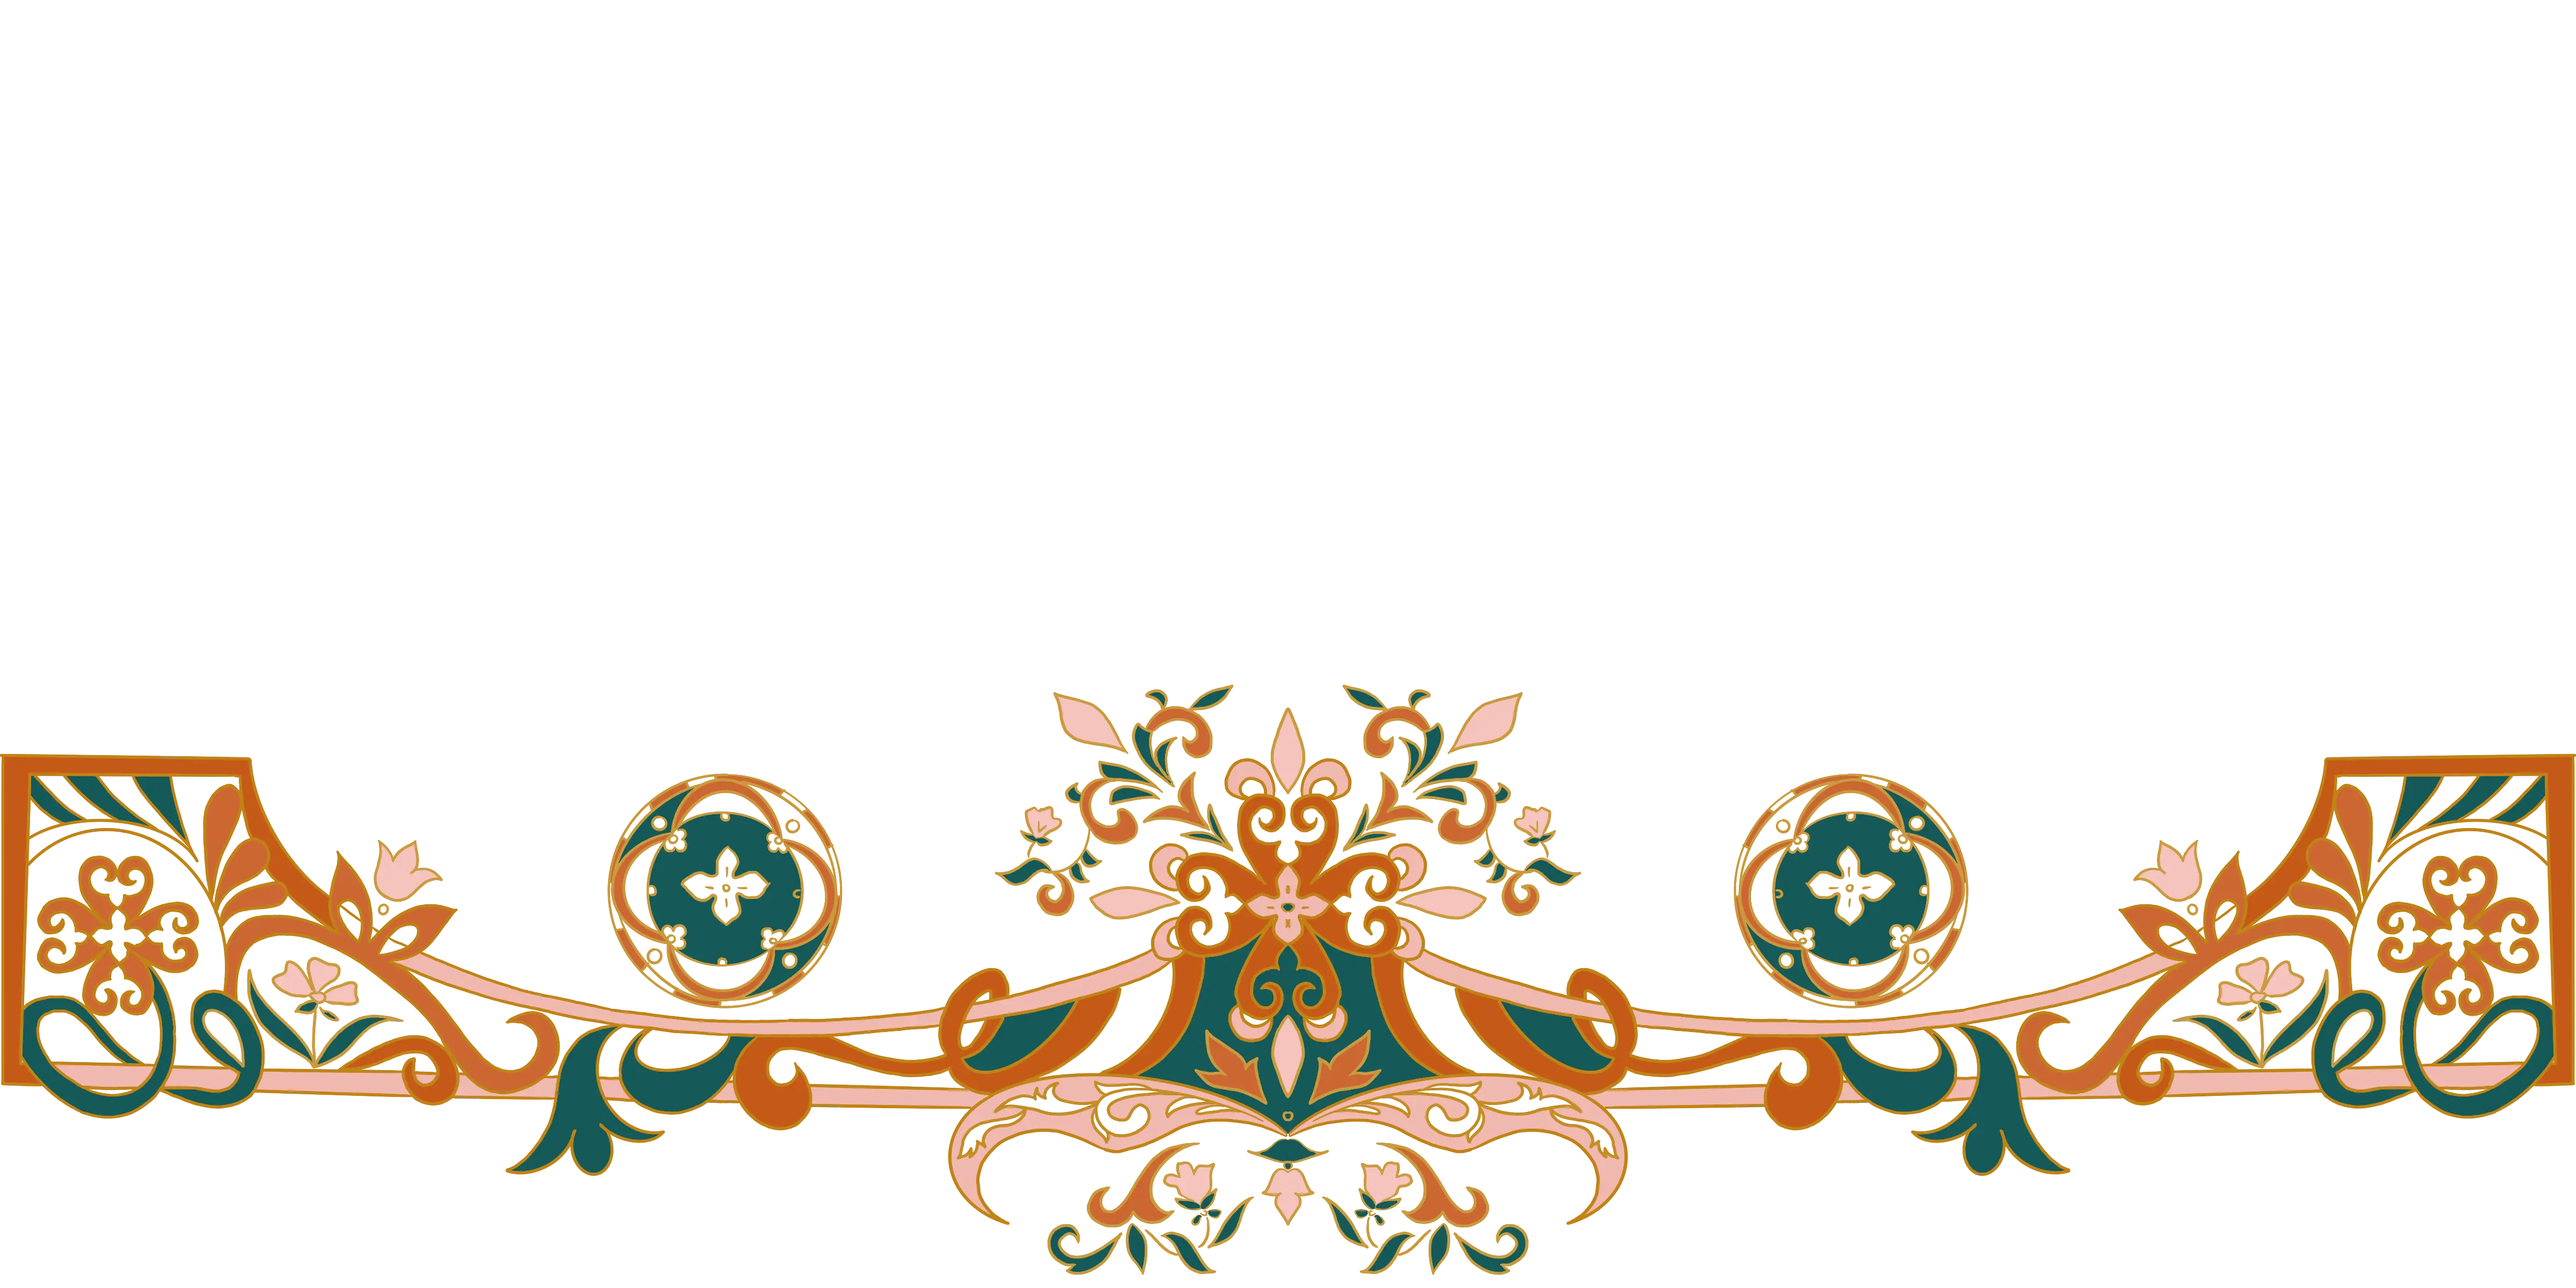
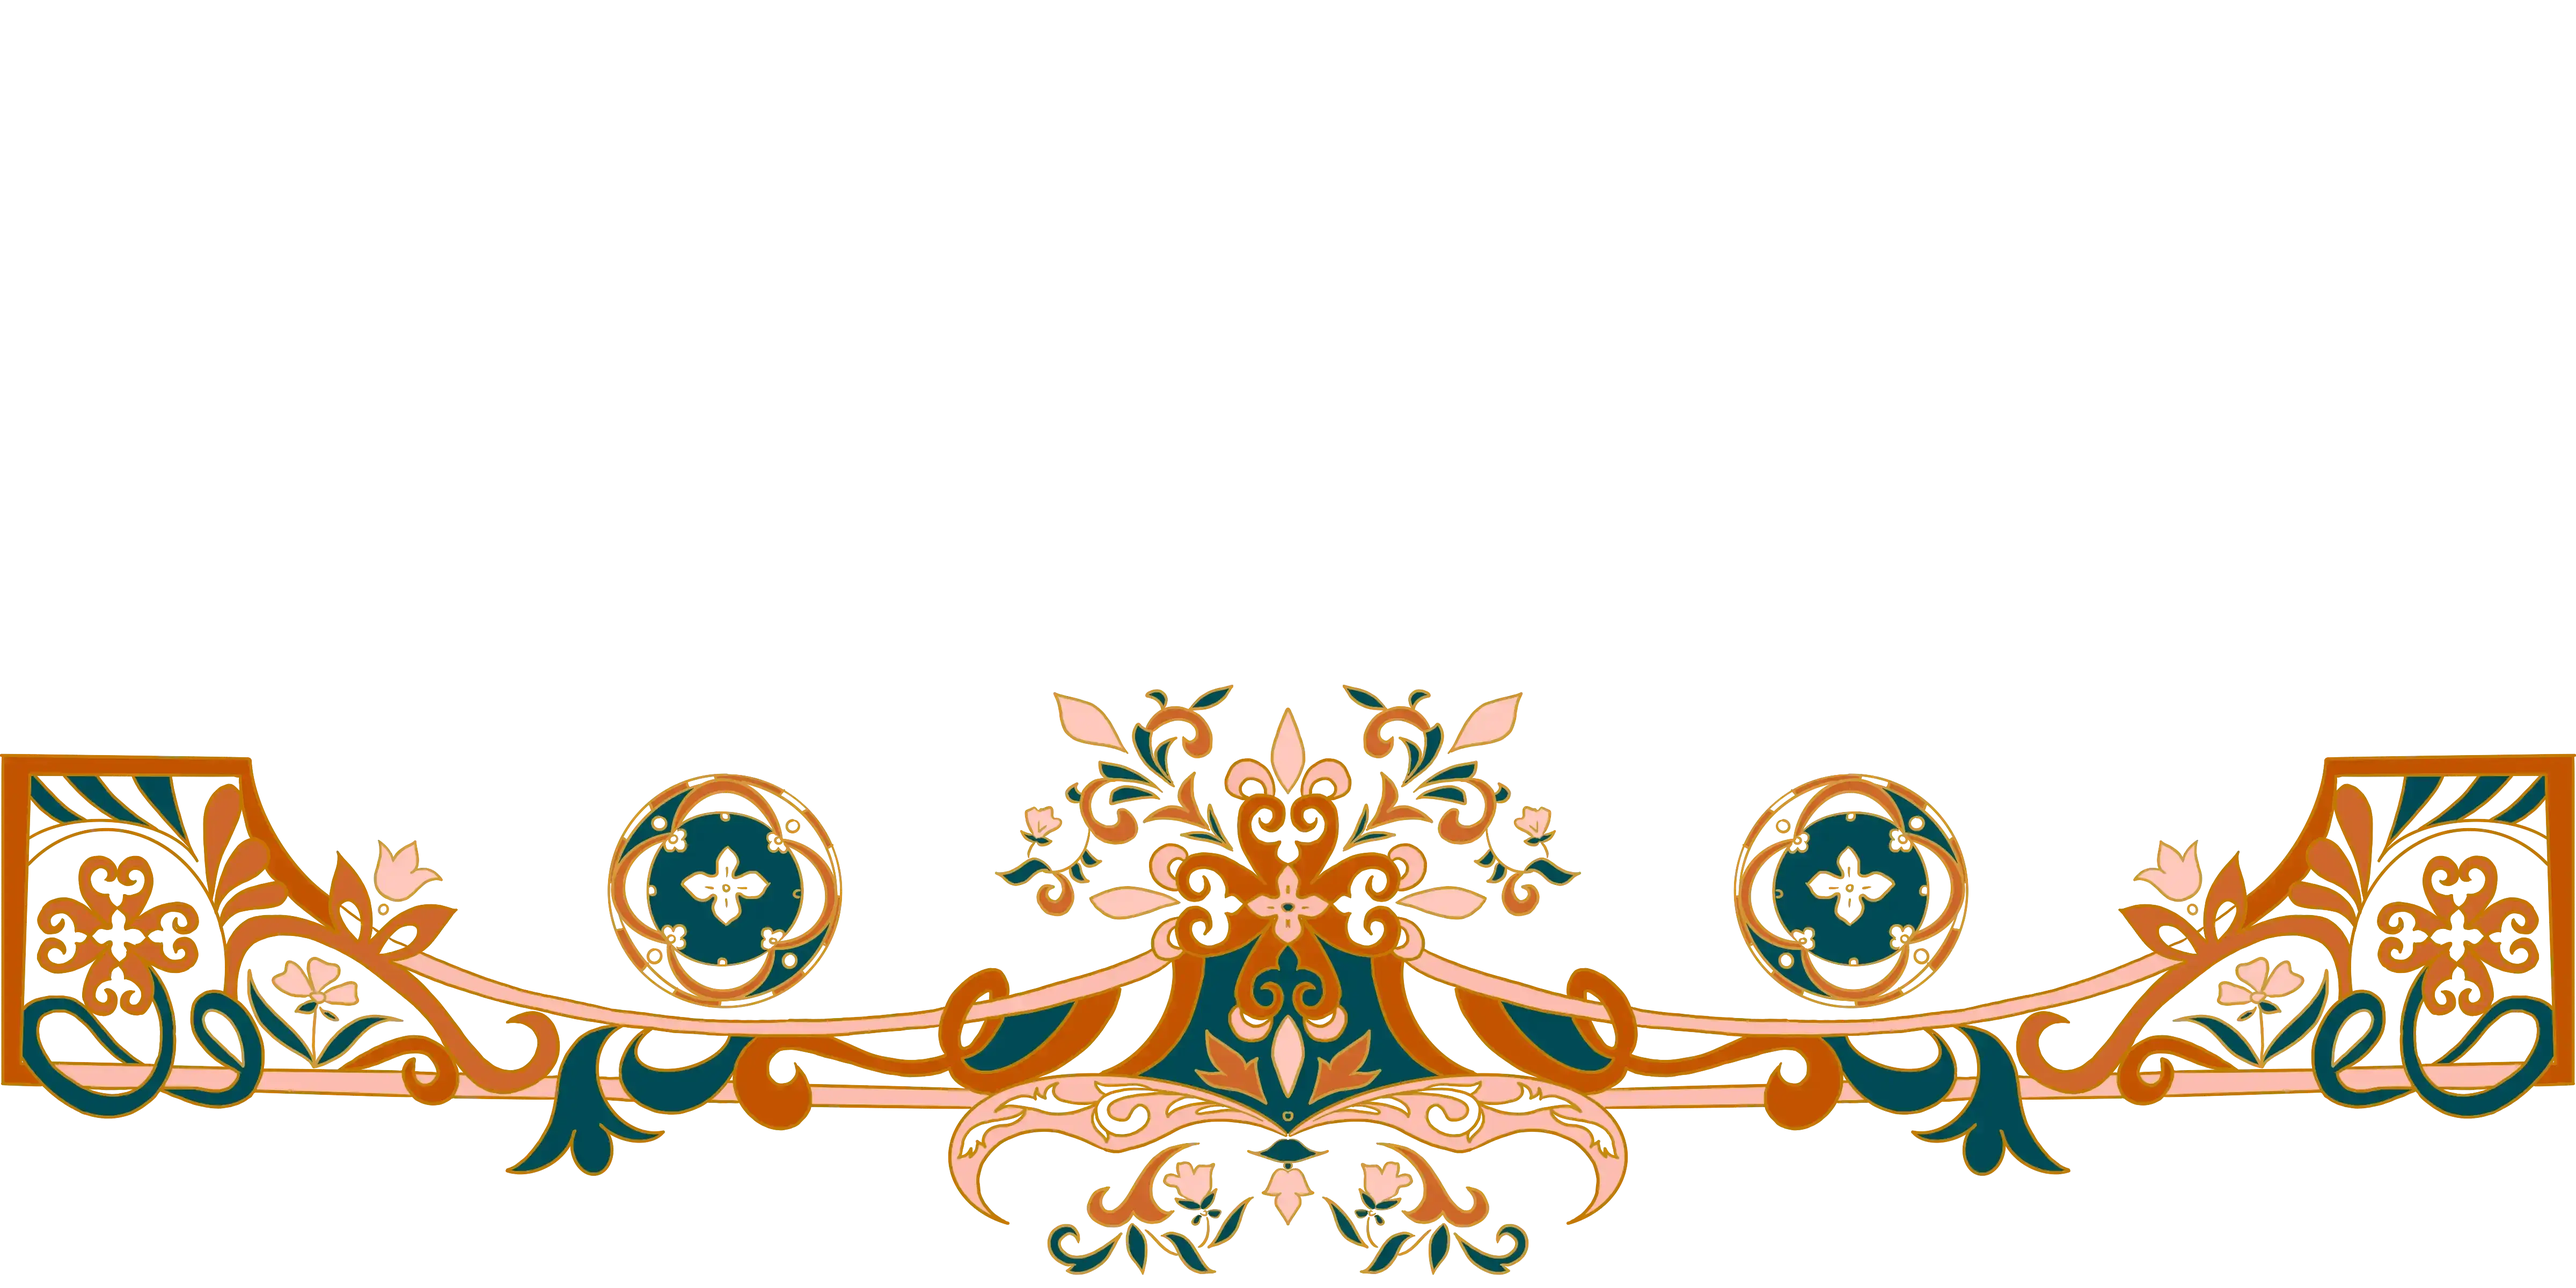
optimize bgwork image

diff --git a/src/pages/Home.jsx b/src/pages/Home.jsx
@@ -1,9 +1,9 @@
-import React, {Suspense, lazy} from "react";
+import React, { useEffect, Suspense, lazy } from "react";
 import { ParallaxBanner } from "react-scroll-parallax";
 import "../App.css";
 import HeroText from "../components/HeroText";
-const Slider  = lazy(() => import("../components/Slider"));
-const AboutSection = lazy(() => import ("../components/AboutSection"));
+const Slider = lazy(() => import("../components/Slider"));
+const AboutSection = lazy(() => import("../components/AboutSection"));
 const Projects = lazy(() => import("../components/Projects"));
 const ServiceSection = lazy(() => import("../components/ServiceSection"));
 const ContactSection = lazy(() => import("../components/ContactSection"));
@@ -18,7 +18,33 @@ const Home = () => {
   const image1 = React.useRef();
   const image2 = React.useRef();
 
-   useGSAP(() => {
+  // ✅ Dynamically preload home images and clean up after leaving
+  useEffect(() => {
+    const imagesToPreload = [
+      "/bgwork.webp",
+      "/spinning-circle1.webp",
+      "/logo.webp",
+    ];
+
+    // Create and append preload links
+    const links = imagesToPreload.map((src) => {
+      const link = document.createElement("link");
+      link.rel = "preload";
+      link.as = "image";
+      link.href = src;
+      link.fetchPriority = "high";
+      document.head.appendChild(link);
+      return link;
+    });
+
+    // ✅ Cleanup function: remove them from <head> on unmount
+    return () => {
+      links.forEach((link) => link.remove());
+    };
+  }, []);
+
+  // ✅ Animations
+  useGSAP(() => {
     gsap.fromTo(
       image1.current,
       { y: 200, opacity: 0 },
@@ -36,8 +62,7 @@ const Home = () => {
     );
   }, []);
 
-
-   useGSAP(() => {
+  useGSAP(() => {
     gsap.fromTo(
       image2.current,
       { y: 200, opacity: 0 },
@@ -54,47 +79,43 @@ const Home = () => {
       }
     );
   }, []);
+
   return (
     <div className="relative">
       <div className="parallaxWrapper relative">
         <ParallaxBanner
           className="parallax aspect-[2/1] h-screen"
           layers={[
-          
-            {
-              speed: -30,
-              children: <HeroText />,
-            },
-           
-            {
-              image: "/bgwork.webp",
-              speed: -2,
-            },
+            { speed: -30, children: <HeroText /> },
+            { image: "/bgwork.webp", speed: -2 },
           ]}
         />
+
         <div ref={image1} className="absolute w-[130px] top-[30%] left-[10%]">
-        <img
-          src="/spinning-circle1.webp"
-          alt="spinning circle"
-          className=" rounded-full animate-spin-slow hidden lg:block"
-        />
+          <img
+            src="/spinning-circle1.webp"
+            alt="spinning circle"
+            className="rounded-full animate-spin-slow hidden lg:block"
+          />
         </div>
-        <div ref={image2} className="absolute w-[130px] top-[30%] right-[10%] ">
-        <img
-          src="/spinning-circle1.webp"
-          alt="spinning circle"
-          className="rounded-full animate-spin-slow2 hidden lg:block"
-        />
+
+        <div ref={image2} className="absolute w-[130px] top-[30%] right-[10%]">
+          <img
+            src="/spinning-circle1.webp"
+            alt="spinning circle"
+            className="rounded-full animate-spin-slow2 hidden lg:block"
+          />
         </div>
       </div>
 
-<Suspense fallback={<p>Loading ...</p>}>
-      <Slider />
-      <AboutSection />
-      <Projects />
-      <ServiceSection />
-      <ContactSection />
+      <Suspense fallback={<p>Loading ...</p>}>
+        <Slider />
+        <AboutSection />
+        <Projects />
+        <ServiceSection />
+        <ContactSection />
       </Suspense>
+
       <ToTop />
     </div>
   );

diff --git a/server/server.js b/server/server.js
@@ -2,53 +2,53 @@ import express from "express";
 import cors from "cors";
 import dotenv from "dotenv";
 import rateLimit from "express-rate-limit";
-import nodemailer from "nodemailer";
+import { Resend } from "resend";
 
 dotenv.config();
 const app = express();
 const PORT = process.env.PORT || 5000;
 
+// Middlewares
 app.use(cors());
 app.use(express.json());
 
-// Limit form submissions
+// Rate limiter to prevent spam
 const limiter = rateLimit({
-  windowMs: 60 * 1000, // 1 minute
-  max: 1,
-  handler: (req, res) => {
-    res.status(429).json({ error: "Too many requests, try again later." });
-  },
+  windowMs: 60 * 1000,
+  max: 3,
+  message: { error: "Too many requests, try again later." },
 });
+app.use(limiter);
 
-// Configure Nodemailer transporter
-const transporter = nodemailer.createTransport({
-  host: "smtp.gmail.com",  // NOT localhost
-  port: 587,
-  secure: false, // true if port is 465
-  auth: {
-    user: process.env.EMAIL_SENDER, // verified Gmail
-    pass: process.env.EMAIL_PASS,   // App Password
-  },
-});
+// Initialize Resend
+const resend = new Resend(process.env.RESEND_API_KEY);
 
-app.post("/sendmail", limiter, async (req, res) => {
+// POST endpoint to handle form submissions
+app.post("/sendmail", async (req, res) => {
   const { name, email, phone, what, message } = req.body;
 
   if (!name || !email || !message) {
-    return res.status(400).json({ error: "Missing required fields" });
+    return res
+      .status(400)
+      .json({ success: false, message: "Missing required fields" });
   }
 
-  const mailOptions = {
-    from: process.env.EMAIL_SENDER, // your verified email
-    to: "naseehan700@gmail.com", // you + client
-    subject: `New message from ${name}`,
-    text: `Name: ${name}\nEmail: ${email}\nPhone: ${phone || "N/A"}\nRegarding: ${what || ""}\nMessage:\n${message}`,
-    // replyTo: email // OPTIONAL if you want to reply directly to user
-  };
-
   try {
-    await transporter.sendMail(mailOptions);
-    res.json({ success: true, message: "✅ Email sent successfully!" });
+    // Send email using Resend
+    const data = await resend.emails.send({
+      from: "Website Contact <onboarding@resend.dev>", // use your verified sender if available
+      to: "naseehan700@gmail.com",
+      subject: `New message from ${name}`,
+      text: `
+Name: ${name}
+Email: ${email}
+Phone: ${phone || "Not provided"}
+Regarding: ${what}
+Message: ${message}
+      `,
+    });
+
+    res.json({ success: true, message: "✅ Email sent successfully!", data });
   } catch (error) {
     console.error("Email send error:", error);
     res.status(500).json({

diff --git a/index.html b/index.html
@@ -29,10 +29,6 @@
   type="font/ttf"
   crossorigin
 />
-<!-- preload images -->
-<link rel="preload" as="image" href="/logo.webp" fetchpriority="high">
-<link rel="preload" as="image" href="/bgwork.webp" fetchpriority="high">
-<link rel="preload" as="image" media="(min-width:1024px)" href="/spinning-circle.webp" fetchpriority="high">
 
 <!-- fontawesome -->
  <link
